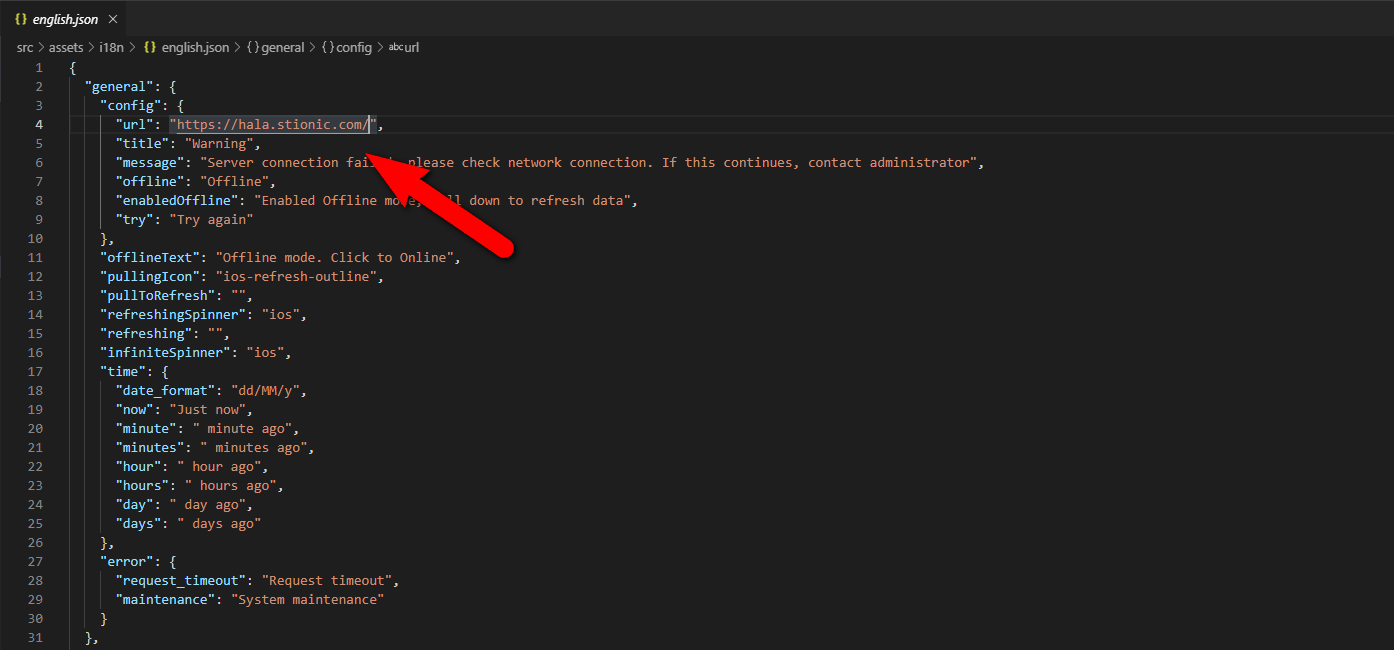
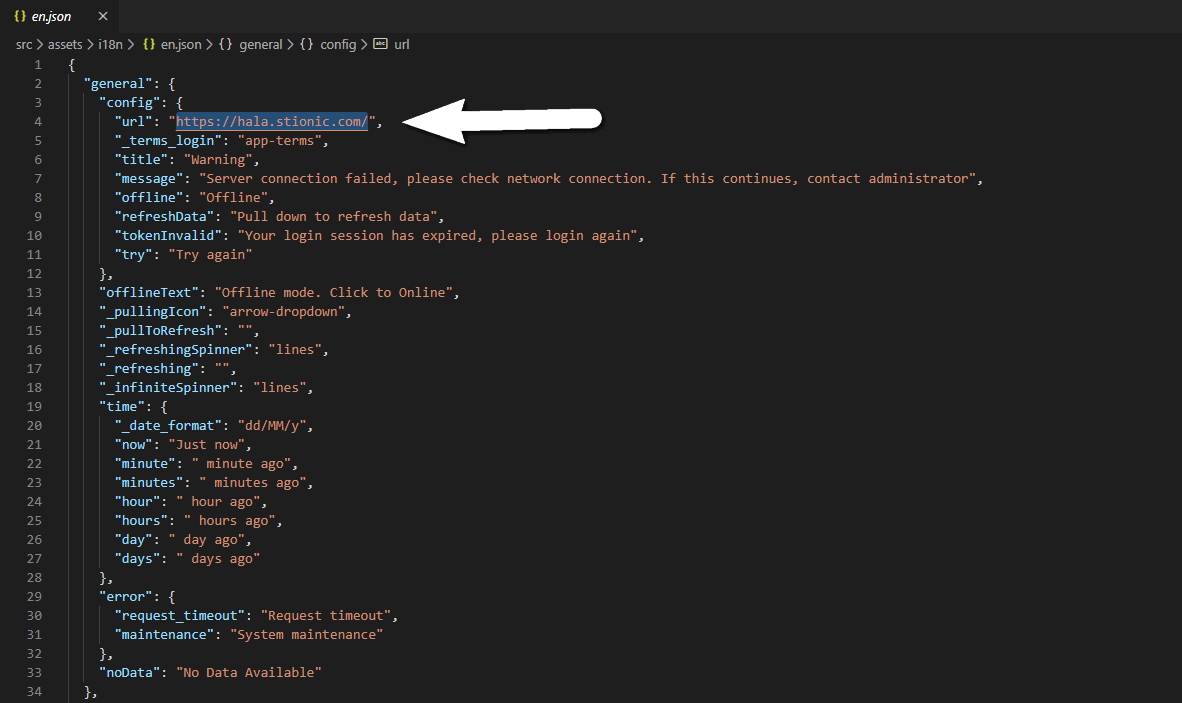
Deploy website
Deploy website version based on 4c0be898eaee707a3a7b8fb244df5da744e8b7f2

Changed region(s): [[0.0, 0.0, 0.8223, 1.0], [0.2437, 0.4923, 0.2741, 0.5231]]

diff --git a/docs/config.html b/docs/config.html
@@ -63,6 +63,10 @@
 </blockquote>
 <p>Tips: you can open your website in browser and wait all load done then copy url in Address bar</p>
 <p><img src="/halanews-document/docs/assets/config-website-url.png" alt=""></p>
+<h2><a class="anchor" aria-hidden="true" id="terms-and-conditions-page"></a><a href="#terms-and-conditions-page" aria-hidden="true" class="hash-link"><svg class="hash-link-icon" aria-hidden="true" height="16" version="1.1" viewBox="0 0 16 16" width="16"><path fill-rule="evenodd" d="M4 9h1v1H4c-1.5 0-3-1.69-3-3.5S2.55 3 4 3h4c1.45 0 3 1.69 3 3.5 0 1.41-.91 2.72-2 3.25V8.59c.58-.45 1-1.27 1-2.09C10 5.22 8.98 4 8 4H4c-.98 0-2 1.22-2 2.5S3 9 4 9zm9-3h-1v1h1c1 0 2 1.22 2 2.5S13.98 12 13 12H9c-.98 0-2-1.22-2-2.5 0-.83.42-1.64 1-2.09V6.25c-1.09.53-2 1.84-2 3.25C6 11.31 7.55 13 9 13h4c1.45 0 3-1.69 3-3.5S14.5 6 13 6z"></path></svg></a>Terms and Conditions page</h2>
+<p>Default you simple create page in WordPress with slug <code>app-terms</code> then app will open this page when click Terms and Conditions in Login.</p>
+<p>If you want to change slug just edit in <code>/src/assets/i18n/en.json</code></p>
+<p>Open en.json file with a text editor and edit <code>general.config._terms_login</code> (line 5)</p>
 <h2><a class="anchor" aria-hidden="true" id="app-information"></a><a href="#app-information" aria-hidden="true" class="hash-link"><svg class="hash-link-icon" aria-hidden="true" height="16" version="1.1" viewBox="0 0 16 16" width="16"><path fill-rule="evenodd" d="M4 9h1v1H4c-1.5 0-3-1.69-3-3.5S2.55 3 4 3h4c1.45 0 3 1.69 3 3.5 0 1.41-.91 2.72-2 3.25V8.59c.58-.45 1-1.27 1-2.09C10 5.22 8.98 4 8 4H4c-.98 0-2 1.22-2 2.5S3 9 4 9zm9-3h-1v1h1c1 0 2 1.22 2 2.5S13.98 12 13 12H9c-.98 0-2-1.22-2-2.5 0-.83.42-1.64 1-2.09V6.25c-1.09.53-2 1.84-2 3.25C6 11.31 7.55 13 9 13h4c1.45 0 3-1.69 3-3.5S14.5 6 13 6z"></path></svg></a>App Information</h2>
 <p>The application should be unique, so you need to provide application information such as ID, version, application name to make sure it is unique.</p>
 <p>Just open <code>/config.xml</code> file with a text editor and edit</p>
@@ -92,4 +96,4 @@
 <p>For iOS, open <code>/config.xml</code> file and edit <code>GADApplicationIdentifier</code></p>
 <p>Read document <a href="https://support.google.com/admob/answer/7356431?hl=en">Find your app IDs</a>.</p>
 <p><img src="/halanews-document/docs/assets/config-admob-app-id.png" alt=""></p>
-</span></div></article></div><div class="docs-prevnext"><a class="docs-prev button" href="/halanews-document/docs/installation"><span class="arrow-prev">← </span><span>Installation</span></a><a class="docs-next button" href="/halanews-document/docs/customize"><span>Customize your app</span><span class="arrow-next"> →</span></a></div></div></div><nav class="onPageNav"><ul class="toc-headings"><li><a href="#connect-to-wordpress-website">Connect to WordPress website</a></li><li><a href="#app-information">App Information</a></li><li><a href="#deeplinks-optional">Deeplinks (optional)</a></li><li><a href="#facebook-native-sdk-optional">Facebook native SDK (optional)</a></li><li><a href="#google-admob-ads-optional">Google AdMob ads (optional)</a></li></ul></nav></div><footer class="nav-footer" id="footer"><section class="copyright">Copyright © 2020 <a href="https://stionic.com/">Stionic</a></section></footer></div></body></html>
+</span></div></article></div><div class="docs-prevnext"><a class="docs-prev button" href="/halanews-document/docs/installation"><span class="arrow-prev">← </span><span>Installation</span></a><a class="docs-next button" href="/halanews-document/docs/customize"><span>Customize your app</span><span class="arrow-next"> →</span></a></div></div></div><nav class="onPageNav"><ul class="toc-headings"><li><a href="#connect-to-wordpress-website">Connect to WordPress website</a></li><li><a href="#terms-and-conditions-page">Terms and Conditions page</a></li><li><a href="#app-information">App Information</a></li><li><a href="#deeplinks-optional">Deeplinks (optional)</a></li><li><a href="#facebook-native-sdk-optional">Facebook native SDK (optional)</a></li><li><a href="#google-admob-ads-optional">Google AdMob ads (optional)</a></li></ul></nav></div><footer class="nav-footer" id="footer"><section class="copyright">Copyright © 2020 <a href="https://stionic.com/">Stionic</a></section></footer></div></body></html>

diff --git a/docs/config/index.html b/docs/config/index.html
@@ -63,6 +63,10 @@
 </blockquote>
 <p>Tips: you can open your website in browser and wait all load done then copy url in Address bar</p>
 <p><img src="/halanews-document/docs/assets/config-website-url.png" alt=""></p>
+<h2><a class="anchor" aria-hidden="true" id="terms-and-conditions-page"></a><a href="#terms-and-conditions-page" aria-hidden="true" class="hash-link"><svg class="hash-link-icon" aria-hidden="true" height="16" version="1.1" viewBox="0 0 16 16" width="16"><path fill-rule="evenodd" d="M4 9h1v1H4c-1.5 0-3-1.69-3-3.5S2.55 3 4 3h4c1.45 0 3 1.69 3 3.5 0 1.41-.91 2.72-2 3.25V8.59c.58-.45 1-1.27 1-2.09C10 5.22 8.98 4 8 4H4c-.98 0-2 1.22-2 2.5S3 9 4 9zm9-3h-1v1h1c1 0 2 1.22 2 2.5S13.98 12 13 12H9c-.98 0-2-1.22-2-2.5 0-.83.42-1.64 1-2.09V6.25c-1.09.53-2 1.84-2 3.25C6 11.31 7.55 13 9 13h4c1.45 0 3-1.69 3-3.5S14.5 6 13 6z"></path></svg></a>Terms and Conditions page</h2>
+<p>Default you simple create page in WordPress with slug <code>app-terms</code> then app will open this page when click Terms and Conditions in Login.</p>
+<p>If you want to change slug just edit in <code>/src/assets/i18n/en.json</code></p>
+<p>Open en.json file with a text editor and edit <code>general.config._terms_login</code> (line 5)</p>
 <h2><a class="anchor" aria-hidden="true" id="app-information"></a><a href="#app-information" aria-hidden="true" class="hash-link"><svg class="hash-link-icon" aria-hidden="true" height="16" version="1.1" viewBox="0 0 16 16" width="16"><path fill-rule="evenodd" d="M4 9h1v1H4c-1.5 0-3-1.69-3-3.5S2.55 3 4 3h4c1.45 0 3 1.69 3 3.5 0 1.41-.91 2.72-2 3.25V8.59c.58-.45 1-1.27 1-2.09C10 5.22 8.98 4 8 4H4c-.98 0-2 1.22-2 2.5S3 9 4 9zm9-3h-1v1h1c1 0 2 1.22 2 2.5S13.98 12 13 12H9c-.98 0-2-1.22-2-2.5 0-.83.42-1.64 1-2.09V6.25c-1.09.53-2 1.84-2 3.25C6 11.31 7.55 13 9 13h4c1.45 0 3-1.69 3-3.5S14.5 6 13 6z"></path></svg></a>App Information</h2>
 <p>The application should be unique, so you need to provide application information such as ID, version, application name to make sure it is unique.</p>
 <p>Just open <code>/config.xml</code> file with a text editor and edit</p>
@@ -92,4 +96,4 @@
 <p>For iOS, open <code>/config.xml</code> file and edit <code>GADApplicationIdentifier</code></p>
 <p>Read document <a href="https://support.google.com/admob/answer/7356431?hl=en">Find your app IDs</a>.</p>
 <p><img src="/halanews-document/docs/assets/config-admob-app-id.png" alt=""></p>
-</span></div></article></div><div class="docs-prevnext"><a class="docs-prev button" href="/halanews-document/docs/installation"><span class="arrow-prev">← </span><span>Installation</span></a><a class="docs-next button" href="/halanews-document/docs/customize"><span>Customize your app</span><span class="arrow-next"> →</span></a></div></div></div><nav class="onPageNav"><ul class="toc-headings"><li><a href="#connect-to-wordpress-website">Connect to WordPress website</a></li><li><a href="#app-information">App Information</a></li><li><a href="#deeplinks-optional">Deeplinks (optional)</a></li><li><a href="#facebook-native-sdk-optional">Facebook native SDK (optional)</a></li><li><a href="#google-admob-ads-optional">Google AdMob ads (optional)</a></li></ul></nav></div><footer class="nav-footer" id="footer"><section class="copyright">Copyright © 2020 <a href="https://stionic.com/">Stionic</a></section></footer></div></body></html>
+</span></div></article></div><div class="docs-prevnext"><a class="docs-prev button" href="/halanews-document/docs/installation"><span class="arrow-prev">← </span><span>Installation</span></a><a class="docs-next button" href="/halanews-document/docs/customize"><span>Customize your app</span><span class="arrow-next"> →</span></a></div></div></div><nav class="onPageNav"><ul class="toc-headings"><li><a href="#connect-to-wordpress-website">Connect to WordPress website</a></li><li><a href="#terms-and-conditions-page">Terms and Conditions page</a></li><li><a href="#app-information">App Information</a></li><li><a href="#deeplinks-optional">Deeplinks (optional)</a></li><li><a href="#facebook-native-sdk-optional">Facebook native SDK (optional)</a></li><li><a href="#google-admob-ads-optional">Google AdMob ads (optional)</a></li></ul></nav></div><footer class="nav-footer" id="footer"><section class="copyright">Copyright © 2020 <a href="https://stionic.com/">Stionic</a></section></footer></div></body></html>

diff --git a/docs/customize.html b/docs/customize.html
@@ -121,6 +121,9 @@
 <blockquote>
 <p>Example: duplicate <code>en.json</code> and rename to <code>vi.json</code>. Then declarations in <code>languages.json</code> as image above.</p>
 </blockquote>
+<blockquote>
+<p><span style="color:red">IMPORTANT:</span> language file name can not have special characters (just a-z). We highly recommend search your <a href="https://en.wikipedia.org/wiki/List_of_ISO_639-1_codes">language code ISO 639-1 two-letter</a> for auto detect device language.</p>
+</blockquote>
 <p>[language] below is a replacement for translated file (en.json, vi.json,…)</p>
 <p>To translate the application, simply edit the <code>/src/assets/i18n/[language].json</code> file.</p>
 <blockquote>

diff --git a/docs/customize/index.html b/docs/customize/index.html
@@ -121,6 +121,9 @@
 <blockquote>
 <p>Example: duplicate <code>en.json</code> and rename to <code>vi.json</code>. Then declarations in <code>languages.json</code> as image above.</p>
 </blockquote>
+<blockquote>
+<p><span style="color:red">IMPORTANT:</span> language file name can not have special characters (just a-z). We highly recommend search your <a href="https://en.wikipedia.org/wiki/List_of_ISO_639-1_codes">language code ISO 639-1 two-letter</a> for auto detect device language.</p>
+</blockquote>
 <p>[language] below is a replacement for translated file (en.json, vi.json,…)</p>
 <p>To translate the application, simply edit the <code>/src/assets/i18n/[language].json</code> file.</p>
 <blockquote>
